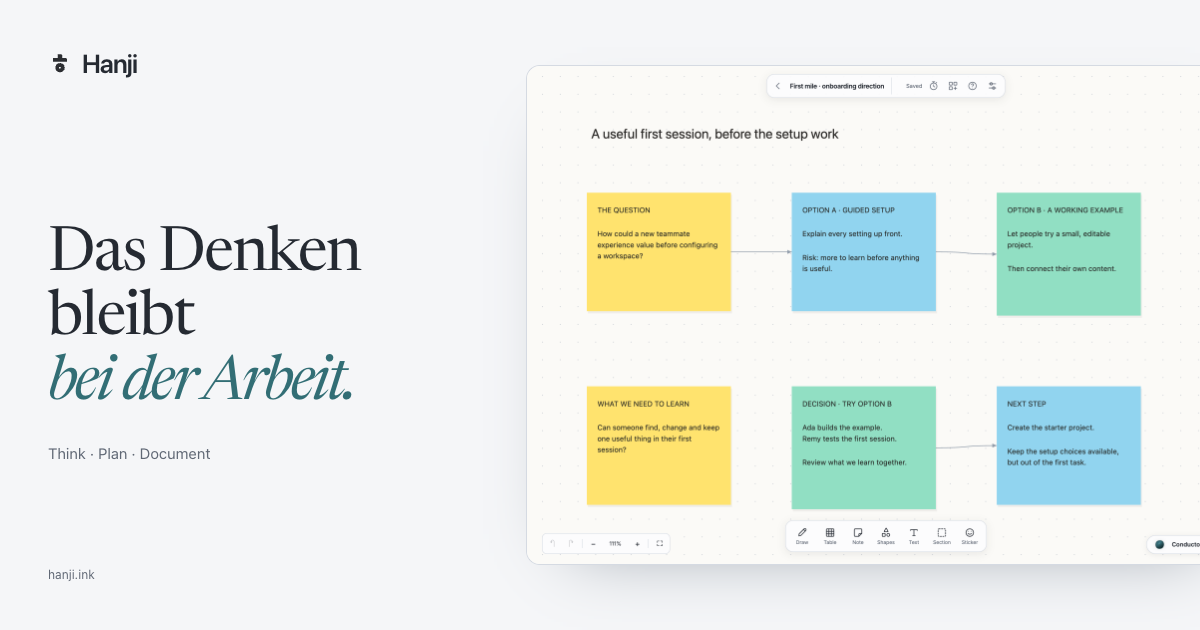
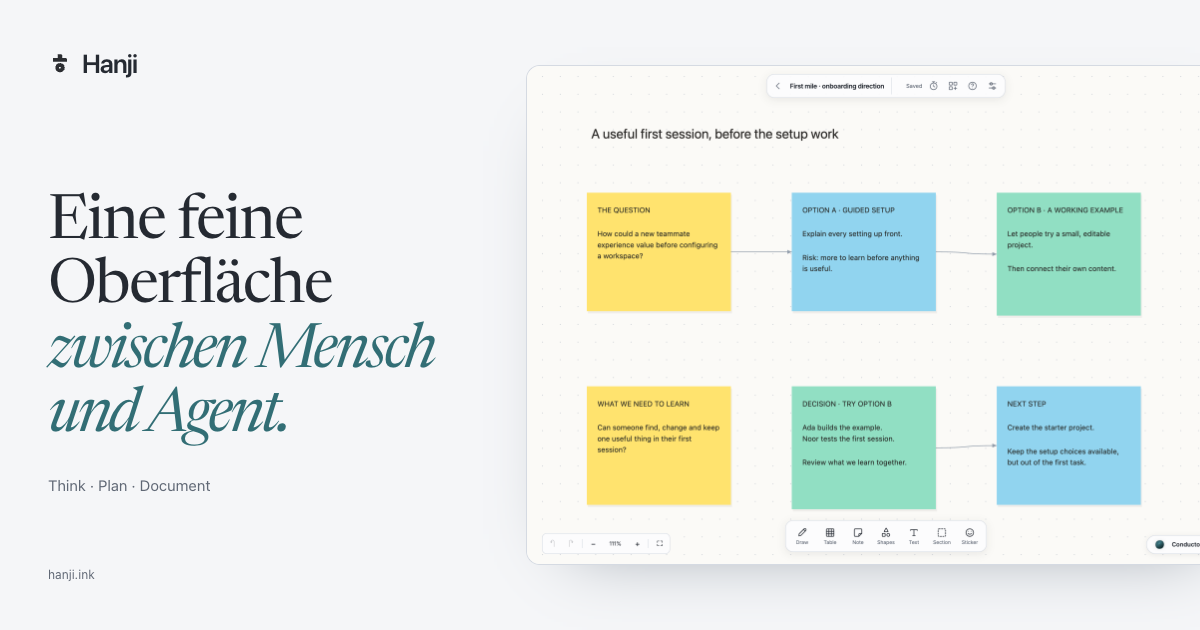
site: restore the lab's human-agent interaction mission

Changed region(s): [[0.0308, 0.3016, 0.37, 0.7238], [0.0308, 0.754, 0.185, 0.7841], [0.6783, 0.6937, 0.74, 0.7238]]

diff --git a/src/styles/current-suite.css b/src/styles/current-suite.css
@@ -52,3 +52,9 @@ body .suite-home-hero h1{font-size:clamp(58px,7.2vw,102px);max-width:1000px;line
 .workspace-tour:has(input[value=think]:checked)>[data-surface=think],.workspace-tour:has(input[value=tracker]:checked)>[data-surface=tracker],.workspace-tour:has(input[value=knowledge]:checked)>[data-surface=knowledge]{display:block}
 .workspace-tour .suite-flagship a{display:block}.workspace-tour .suite-flagship img{display:block;width:100%;height:auto}
 @media(max-width:600px){.workspace-tour-choices{padding:8px}.workspace-tour-choice span{padding:10px 5px;font-size:13px}}
+
+.suite-origin{display:grid;grid-template-columns:1fr 1.15fr;gap:65px;border-top:1px solid var(--color-border);padding-top:65px;padding-bottom:75px}
+.suite-origin h2{font:500 clamp(32px,3.4vw,47px)/1.15 var(--font-editorial);letter-spacing:-.8px;margin:0;max-width:480px}
+.suite-origin p{font:16px/1.85 var(--font-ui);color:var(--color-muted);margin:0 0 22px;max-width:680px}
+body .suite-home-hero h1{font-size:clamp(48px,6.2vw,86px);max-width:1120px}
+@media(max-width:700px){.suite-origin{grid-template-columns:1fr;gap:24px;padding-top:38px;padding-bottom:35px}.suite-origin p{font-size:15px}body .suite-home-hero h1{font-size:clamp(43px,10.5vw,62px)}}

diff --git a/docs/positioning-review.md b/docs/positioning-review.md
@@ -13,23 +13,31 @@ Reviewed 4 November 2026. This is an editorial benchmark, not a feature comparis
 
 These are interpretations of the linked first-party pages. We borrow the editorial discipline, not their slogans, visual identities, traction claims or enterprise positioning.
 
-## Hanji's position
+## Hanji's position — corrected 5 November 2026
 
-**Mission:** Help people and agents build shared understanding on a foundation they own.
+The founder's clarification and the earlier landing-page history are authoritative for the identity. The 7 October refinement (`f2e4973`) already described an experimental collaboration lab, a thin surface between people and agents, clarity in those interactions and human judgment throughout. The later suite rewrite incorrectly elevated ownership of content into the mission.
 
-**Product today:** A workspace for exploring ideas, organizing work and keeping knowledge. Think, Plan and Document are three connected surfaces of that workspace. The conductor brings an optional agent into the context of the work.
+**Identity:** A research lab exploring human–agent interaction.
 
-**Promise:** Keep the thinking with the work.
+**Mission:** Bring clarity to the interaction between people and agents so people can exercise sound judgment and make better use of the emerging workflow.
 
-**Why it matters:** Ideas, decisions and tasks usually end up in different places. People repeat context, and agents inherit fragments. Hanji brings these activities into one workspace, while keeping durable content in files the workspace owner controls.
+**Role:** A thin layer between humans and their new virtual companions and colleagues. Make context, contributions, changes and choices understandable.
 
-**Relationship to the mission:** The current desktop preview is a first step toward that foundation. It is not a claim that every connection is automatic, that every surface has identical permissions, or that hosted collaboration is available.
+**Origin:** An individual need, developed through countless iterations in everyday use.
+
+**Practice:** Share results publicly and as open source while continuing to iterate as AI tools and methods evolve.
+
+**Product today:** Think, Plan and Document form a current workspace experiment. Their present arrangement is one expression of the research and can evolve. The conductor brings an agent into the context of the work.
+
+**Promise:** A thin surface between people and agents.
+
+Ownership and open formats remain useful product principles. They support the research; they do not define its mission. The benchmark informs the clarity and hierarchy of the presentation, not Hanji's identity.
 
 ## Public information architecture
 
-1. Home: what Hanji is → why it exists → the workspace as a whole → three ways to use it → ownership and agency → preview access.
+1. Home: the research lab → clarity and human judgment → personal origin and open iteration → the current workspace experiment → three surfaces → practical interaction principles → preview access.
 2. Product pages: the problem each surface solves, useful workflows, readable product evidence, then detailed capabilities and the appropriate guide.
-3. Mission and vision: the durable ambition, principles and distinction between that ambition and what ships today.
+3. Mission and vision: clearer human–agent interaction, the research practice and the distinction between the lab’s wider scope and what ships today.
 4. Workflow guides: a concrete worked example spanning the surfaces. Label illustrative examples honestly; reserve “customer story” for actual customers and measured outcomes.
 5. Handbook: start with the mental model and the first useful task. Keep installation, usage, administration and implementation details separate.
 

diff --git a/README.md b/README.md
@@ -51,7 +51,7 @@ Product image provenance is the Hanji repository’s `docs/handbook/assets/` and
 `scripts/docs-shots.mjs`. The public canvas has a deterministic paused conductor
 fixture and makes no model call. The document screenshot uses Ada and Remy.
 
-The public story and benchmark rationale are in `docs/positioning-review.md`. The homepage introduces the mission and whole workspace before the three product surfaces; product pages and the handbook carry the deeper workflows. Current product stills are captured at 2× density; the fictional First mile example connects the canvas, issue and decision record.
+The public story and benchmark rationale are in `docs/positioning-review.md`. The homepage introduces Hanji as a research lab for clearer human–agent interaction, its personal origin and open iteration, then the current workspace experiment. Product pages and the handbook carry the deeper workflows. The earlier lab identity is preserved in the history (`f2e4973`); competitors inform presentation, not the mission. Current product stills are captured at 2× density; the fictional First mile example connects the canvas, issue and decision record.
 
 The original Document editorial CSS remains checksum-protected. Its miniatures,
 proposal and permissions demonstrations retain their own tested behavior.
